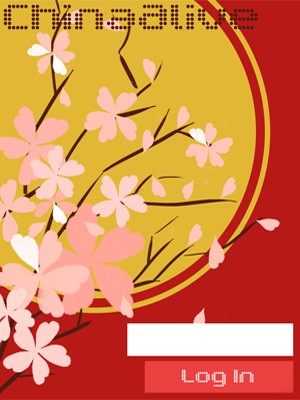
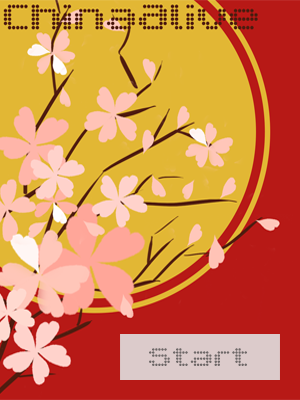
Updated login screen

Changed region(s): [[0.39, 0.75, 0.99, 0.99]]

diff --git a/Test/src/village_menus.js b/Test/src/village_menus.js
@@ -95,8 +95,8 @@ function LoginMenu(loginFunction) {
      menu.body.css("left", "35px");
      menu.body.css("bottom", "20px");*/
 
-    menu.body.append($("<h3 class='game_center passcode_title'>Passcode</h3>"));
-    menu.body.append(passField);
+    //menu.body.append($("<h3 class='game_center passcode_title'>Passcode</h3>"));
+    //menu.body.append(passField);
     menu.body.append(submit);
 
     menu.userId = null;

diff --git a/China/css/style.css b/China/css/style.css
@@ -48,9 +48,10 @@ user-select: none; /* Standard */
 }
 
 .login_menu > .game_dialogBody > .login_button {
-    margin-right: 0;
-    height: 33px;
-    width: 158px;
+    margin-right: 12px;
+    margin-bottom: 10px;
+    height: 53;
+    width: 174px;
     background-color: transparent;
     font-size: 0;
     border: none;
